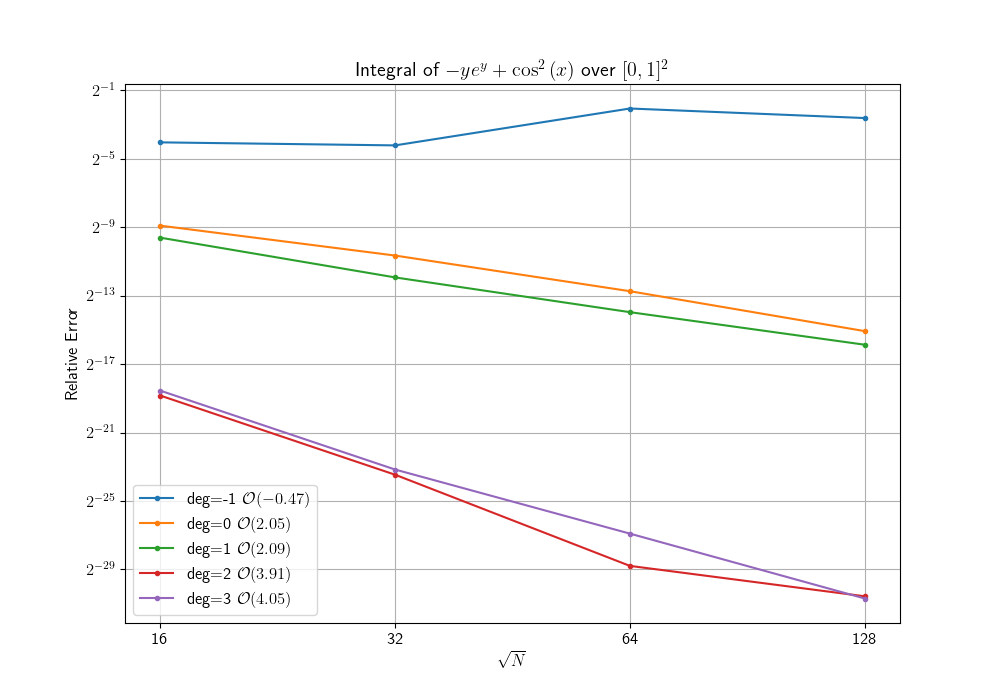
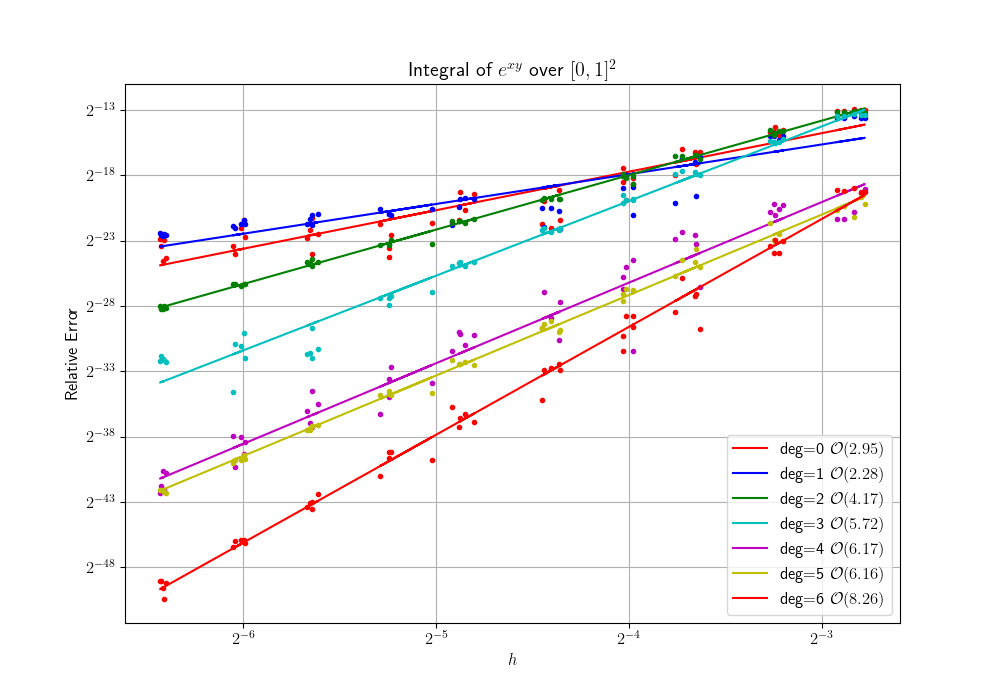
coverage radius and convergence plot

diff --git a/Simulations/drivers/convergence_unit_square.py b/Simulations/drivers/convergence_unit_square.py
@@ -2,13 +2,18 @@
 Run convergence Tests for number of points
 """
 import matplotlib.pyplot as plt
-from matplotlib.ticker import NullFormatter, ScalarFormatter
+
 from math import ceil
 import numpy as np
+import numpy.linalg as la
+from rbf.geometry import circumradius, delaunay_covering_radius, triangle
 from rbf.points import UnitSquare
-from rbf.poly_utils import poly_basis_dim
+
+# from rbf.poly_utils import poly_basis_dim
 from rbf.quadrature import LocalQuad
 from rbf.rbf import PHS
+from scipy.spatial import Delaunay
+from scipy.stats import linregress
 import sympy as sym
 from tqdm import tqdm
 
@@ -23,49 +28,67 @@ plt.rcParams.update(
 )
 
 
-ns = [2**index for index in range(4, 8)]
+repeats = 5
+# ns = [ceil(2**(index/2) for index in range(3, 8)]
+num_ns = 10
+ns = [int(n) for n in np.logspace(np.log2(7), np.log2(80), num_ns, base=2)]
 rbf = PHS(3)
 poly_degs = list(range(7))
-min_stencil_size = 7
-stencil_size_factor = 1.5
+stencil_size = 35
 
 x, y = sym.symbols("x y")
-foo_sym = sym.cos(x) ** 2 + y * sym.exp(y) + x * y
+foo_sym = sym.exp(x*y)
 foo = sym.lambdify((x, y), foo_sym)
 exact = float(sym.integrate(sym.integrate(foo_sym, (x, 0, 1)), (y, 0, 1)))
 
-results = {}
-for n in tqdm(ns):
-    print("Generating Points")
-    points = UnitSquare(n, verbose=True).points
-    fs = foo(*points.T)
-    for poly_deg in tqdm(poly_degs):
-        stencil_size = max(
-            ceil(stencil_size_factor * poly_basis_dim(2, poly_deg)), min_stencil_size
-        )
-        qf = LocalQuad(points, rbf, poly_deg, stencil_size)
-        approx = qf.weights @ fs
-        error = abs((approx - exact) / exact)
-        print(f"{n=}\t{poly_deg=}\t{error=}")
-        results[n, poly_deg] = (points, qf, error)
+results = []
+tqdm_obj = tqdm(ns, leave=False, position=0)
+for n in tqdm_obj:
+    unit_square = UnitSquare(n, verbose=False, auto_settle=False)
+    for _ in tqdm(range(repeats), leave=False, position=1):
+        unit_square.auto_settle()
+        points = unit_square.points
+        mesh = Delaunay(points)
+        h = delaunay_covering_radius(mesh)
+        fs = foo(*points.T)
+        for poly_deg in tqdm(poly_degs, leave=False, position=2):
+            qf = LocalQuad(points, rbf, poly_deg, stencil_size)
+            approx = qf.weights @ fs
+            error = abs((approx - exact) / exact)
+            tqdm_obj.set_description(f"{n=} | {poly_deg=} | {error=:.3E}")
+            results.append((n, poly_deg, h, error))
 
 
 fig = plt.figure(figsize=(10, 7))
 ax = fig.add_subplot(111)
-for poly_deg in poly_degs:
-    errors = [results[n, poly_deg][2] for n in ns if (n, poly_deg) in results.keys()]
-    order = -np.log(errors[0] / errors[-1]) / np.log(ns[0] / ns[-1])
+colors = ["r", "b", "g", "c", "m", "y"] * 2
+for poly_deg, color in zip(poly_degs, colors):
+    hs = []
+    errors = []
+    for n, poly_deg2, h, error in results:
+        if poly_deg2 != poly_deg:
+            continue
+        hs.append(h)
+        errors.append(error)
+    # order = np.log(errors[0] / errors[-1]) / np.log(hs[0] / hs[-1])
+    fit = linregress(np.log(hs), np.log(errors))
     ax.loglog(
-        [n for n in ns if (n, poly_deg) in results.keys()],
+        hs,
         errors,
-        ".-",
-        label=f"deg={poly_deg}~$\\mathcal{{O}}({order:.2f})$",
+        ".",
+        color=color,
+    )
+    plt.loglog(
+        hs,
+        [np.exp(fit.intercept + np.log(h) * fit.slope) for h in hs],
+        "-",
+        color=color,
+        label=f"deg={poly_deg}~$\\mathcal{{O}}({fit.slope:.2f})$",
     )
 
-ax.minorticks_off()
-ax.set_xticks(ns, ns)
+ax.set_xscale("log", base=2)
 ax.set_yscale("log", base=2)
-ax.set_xlabel("$\\sqrt{N}$")
+ax.set_xlabel("$h$")
 ax.set_ylabel("Relative Error")
 ax.set_title(f"Integral of ${sym.latex(foo_sym)}$ over $[0, 1]^2$")
 ax.legend()
@@ -73,3 +96,15 @@ ax.grid()
 
 for ext in [".pdf", ".png"]:
     plt.savefig(FILE + ext)
+
+# plt.figure()
+# plt.triplot(*points.T, mesh.simplices)
+# circum_radii = []
+# centroids = []
+# for tri_indices in mesh.simplices:
+#     tri_points = mesh.points[tri_indices]
+#     centroids.append(triangle(tri_points).centroid)
+#     circum_radii.append(circumradius(tri_points))
+# centroids = np.array(centroids)
+# plt.scatter(*centroids.T, c=circum_radii)
+# plt.colorbar(label="$h$")

diff --git a/Simulations/rbf/geometry.py b/Simulations/rbf/geometry.py
@@ -4,6 +4,7 @@ import numpy as np
 import numpy.linalg as la
 from .poly_utils import Monomial
 from scipy.integrate import fixed_quad
+from scipy.spatial import Delaunay
 from typing import Callable
 
 
@@ -195,3 +196,20 @@ def triangle(mat: np.ndarray[float]) -> Triangle:
     assert mat.ndim == 2
     assert mat.shape == (3, 2)
     return Triangle(*starmap(Point, mat))
+
+
+def circumradius(points: np.ndarray[float]) -> float:
+    a = la.norm(points[0] - points[1])
+    b = la.norm(points[1] - points[2])
+    c = la.norm(points[2] - points[0])
+    return (
+        a * b * c / np.sqrt((a + b + c) * (b + c - a) * (c + a - b) * (a + b - c))
+    )
+
+
+def delaunay_covering_radius(mesh: Delaunay):
+    h = 0
+    for mesh_indices in mesh.simplices:
+        tri = mesh.points[mesh_indices]
+        h = max(h, circumradius(tri))
+    return h
